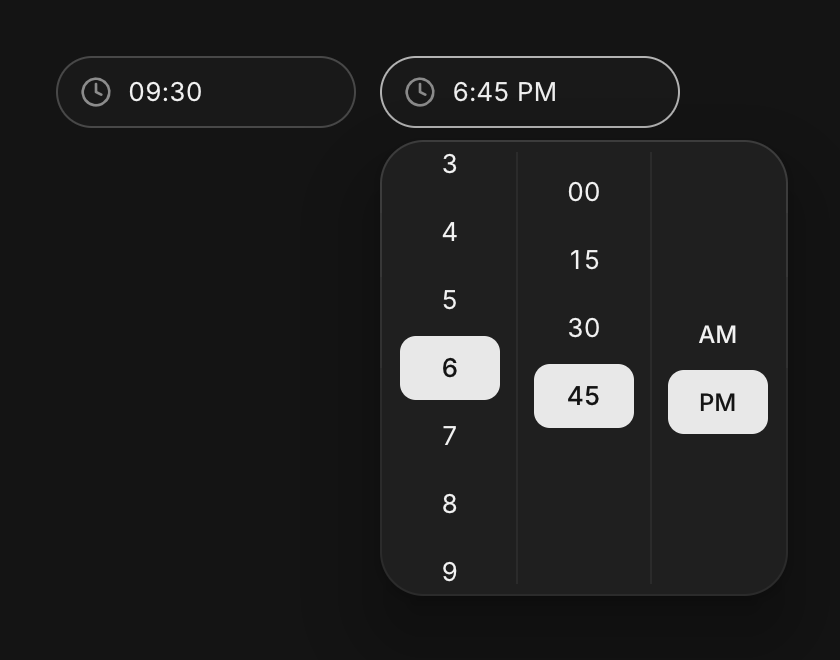
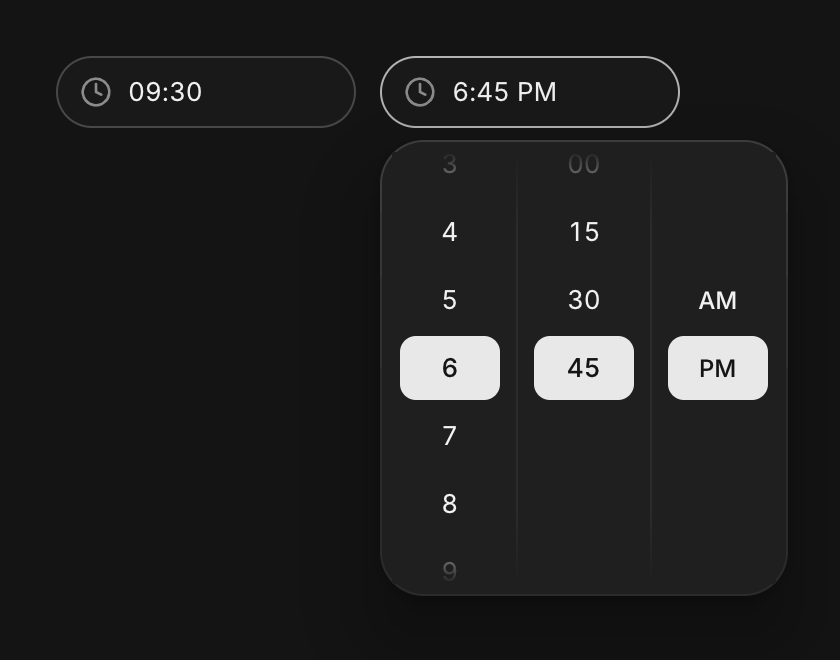
Line up the time picker columns and fade their edges
Every column, and the AM and PM pair, keeps its chosen value in the same
middle row, and the columns fade out at the top and bottom.

diff --git a/src/cui_pickers.c b/src/cui_pickers.c
@@ -544,6 +544,16 @@ bool cui_date_range_picker_ex(cui_ctx *ui, const char *id_str, cui_date_range *r
 
 typedef struct { float hover; } cui__tp_state;
 
+static void cui__paint_column_fade(cui_ctx *ui, cui_node *n, void *data) {
+    (void)data;
+    cui_rect r = n->rect;
+    cui_color bg = CUI_C(ui, SURFACE_RAISED), clear = bg;
+    clear.a = 0;
+    float f = 34;
+    cui_draw_rect_gradient(ui, (cui_rect){ r.x, r.y, r.w, f }, CUI_CORNERS(0), bg, clear);
+    cui_draw_rect_gradient(ui, (cui_rect){ r.x, r.y + r.h - f, r.w, f }, CUI_CORNERS(0), clear, bg);
+}
+
 static bool cui__time_column(cui_ctx *ui, const char *sid, int count, int value, int step, int offset, bool twelve, int *out, bool scroll_now) {
     bool changed = false;
     cui_box sb;
@@ -552,6 +562,7 @@ static bool cui__time_column(cui_ctx *ui, const char *sid, int count, int value,
     sb.height = CUI_PX(216);
     sb.gap = 2;
     sb.pad = 4;
+    sb.pad_top = sb.pad_bottom = (216 - 32) * 0.5f;   /* any item can sit in the middle, level with the other columns */
     cui_id scid = cui_make_id(ui, sid);
     cui__scroll_begin_ex(ui, scid, &sb, false);
     int sel_index = -1;
@@ -583,8 +594,7 @@ static bool cui__time_column(cui_ctx *ui, const char *sid, int count, int value,
     cui__scroll_end_ex(ui);
     if (scroll_now && sel_index >= 0) {
         cui_scroll_state *ss = cui_state(ui, scid, sizeof *ss);
-        float y = 4 + sel_index * 34.0f - (216 - 32) * 0.5f;
-        ss->ty = ss->y = CUI_MAX(0.0f, y);
+        ss->ty = ss->y = sel_index * 34.0f;
     }
     return changed;
 }
@@ -623,6 +633,9 @@ bool cui_time_picker_ex(cui_ctx *ui, const char *id_str, int *hour, int *minute,
         bool scroll_now = p && ui->frame - p->opened_frame <= 2;
         int row = cui__node_new(ui, 0);
         ui->nodes[row].dir = CUI_ROW; ui->nodes[row].gap = 4;
+        ui->nodes[row].paint = cui__paint_column_fade;   /* rows fade out at the top and bottom edges */
+        ui->nodes[row].paint_data = NULL;
+        ui->nodes[row].flags |= CUI_NF_PAINT_AFTER;
         cui__open(ui, row);
         int nh = h, nm = m;
         if (o->twelve_hour) {
@@ -636,7 +649,9 @@ bool cui_time_picker_ex(cui_ctx *ui, const char *id_str, int *hour, int *minute,
             int sep2 = cui__leaf(ui, 0, CUI_PX(1), CUI_FILL);
             ui->nodes[sep2].bg = CUI_C(ui, BORDER);
             int ap = cui__node_new(ui, 0);
-            ui->nodes[ap].gap = 2; ui->nodes[ap].pad[0] = ui->nodes[ap].pad[1] = ui->nodes[ap].pad[2] = ui->nodes[ap].pad[3] = 4;
+            ui->nodes[ap].gap = 2; ui->nodes[ap].pad[1] = ui->nodes[ap].pad[3] = 4;
+            ui->nodes[ap].pad[0] = (216 - 32) * 0.5f - (h >= 12 ? 34 : 0);   /* the chosen half sits in the middle row */
+            ui->nodes[ap].h = CUI_PX(216);
             cui__open(ui, ap);
             for (int k = 0; k < 2; k++) {
                 bool sel = (h >= 12) == (k == 1);
